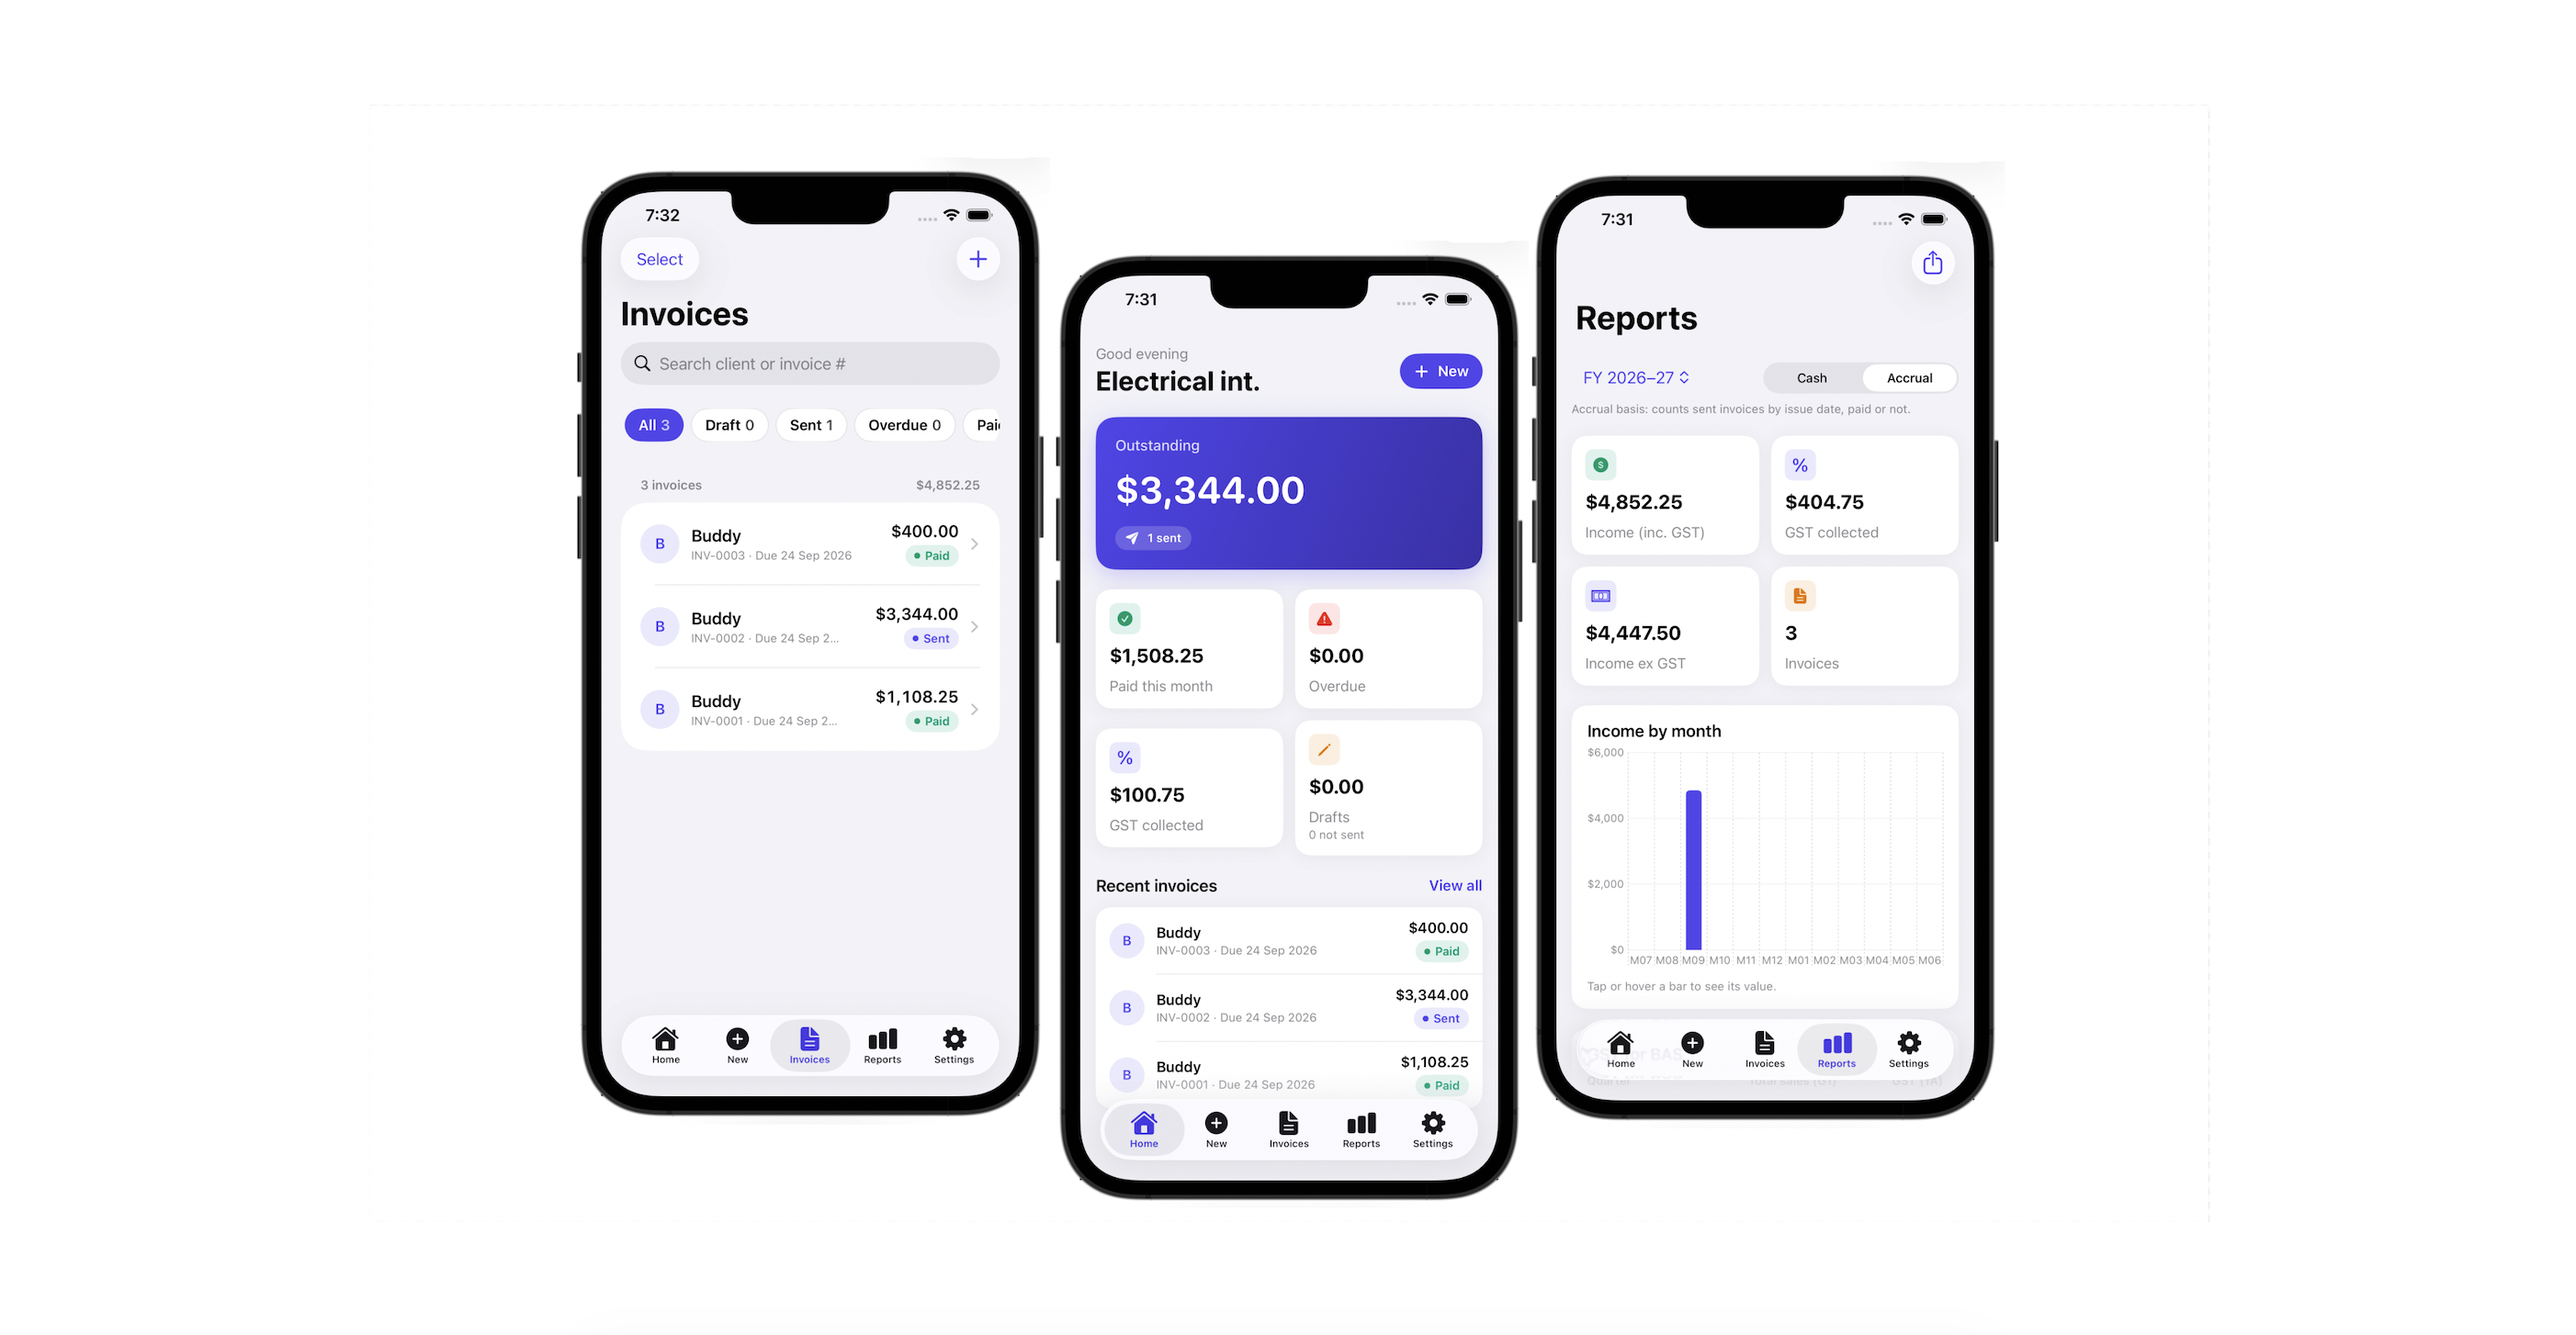
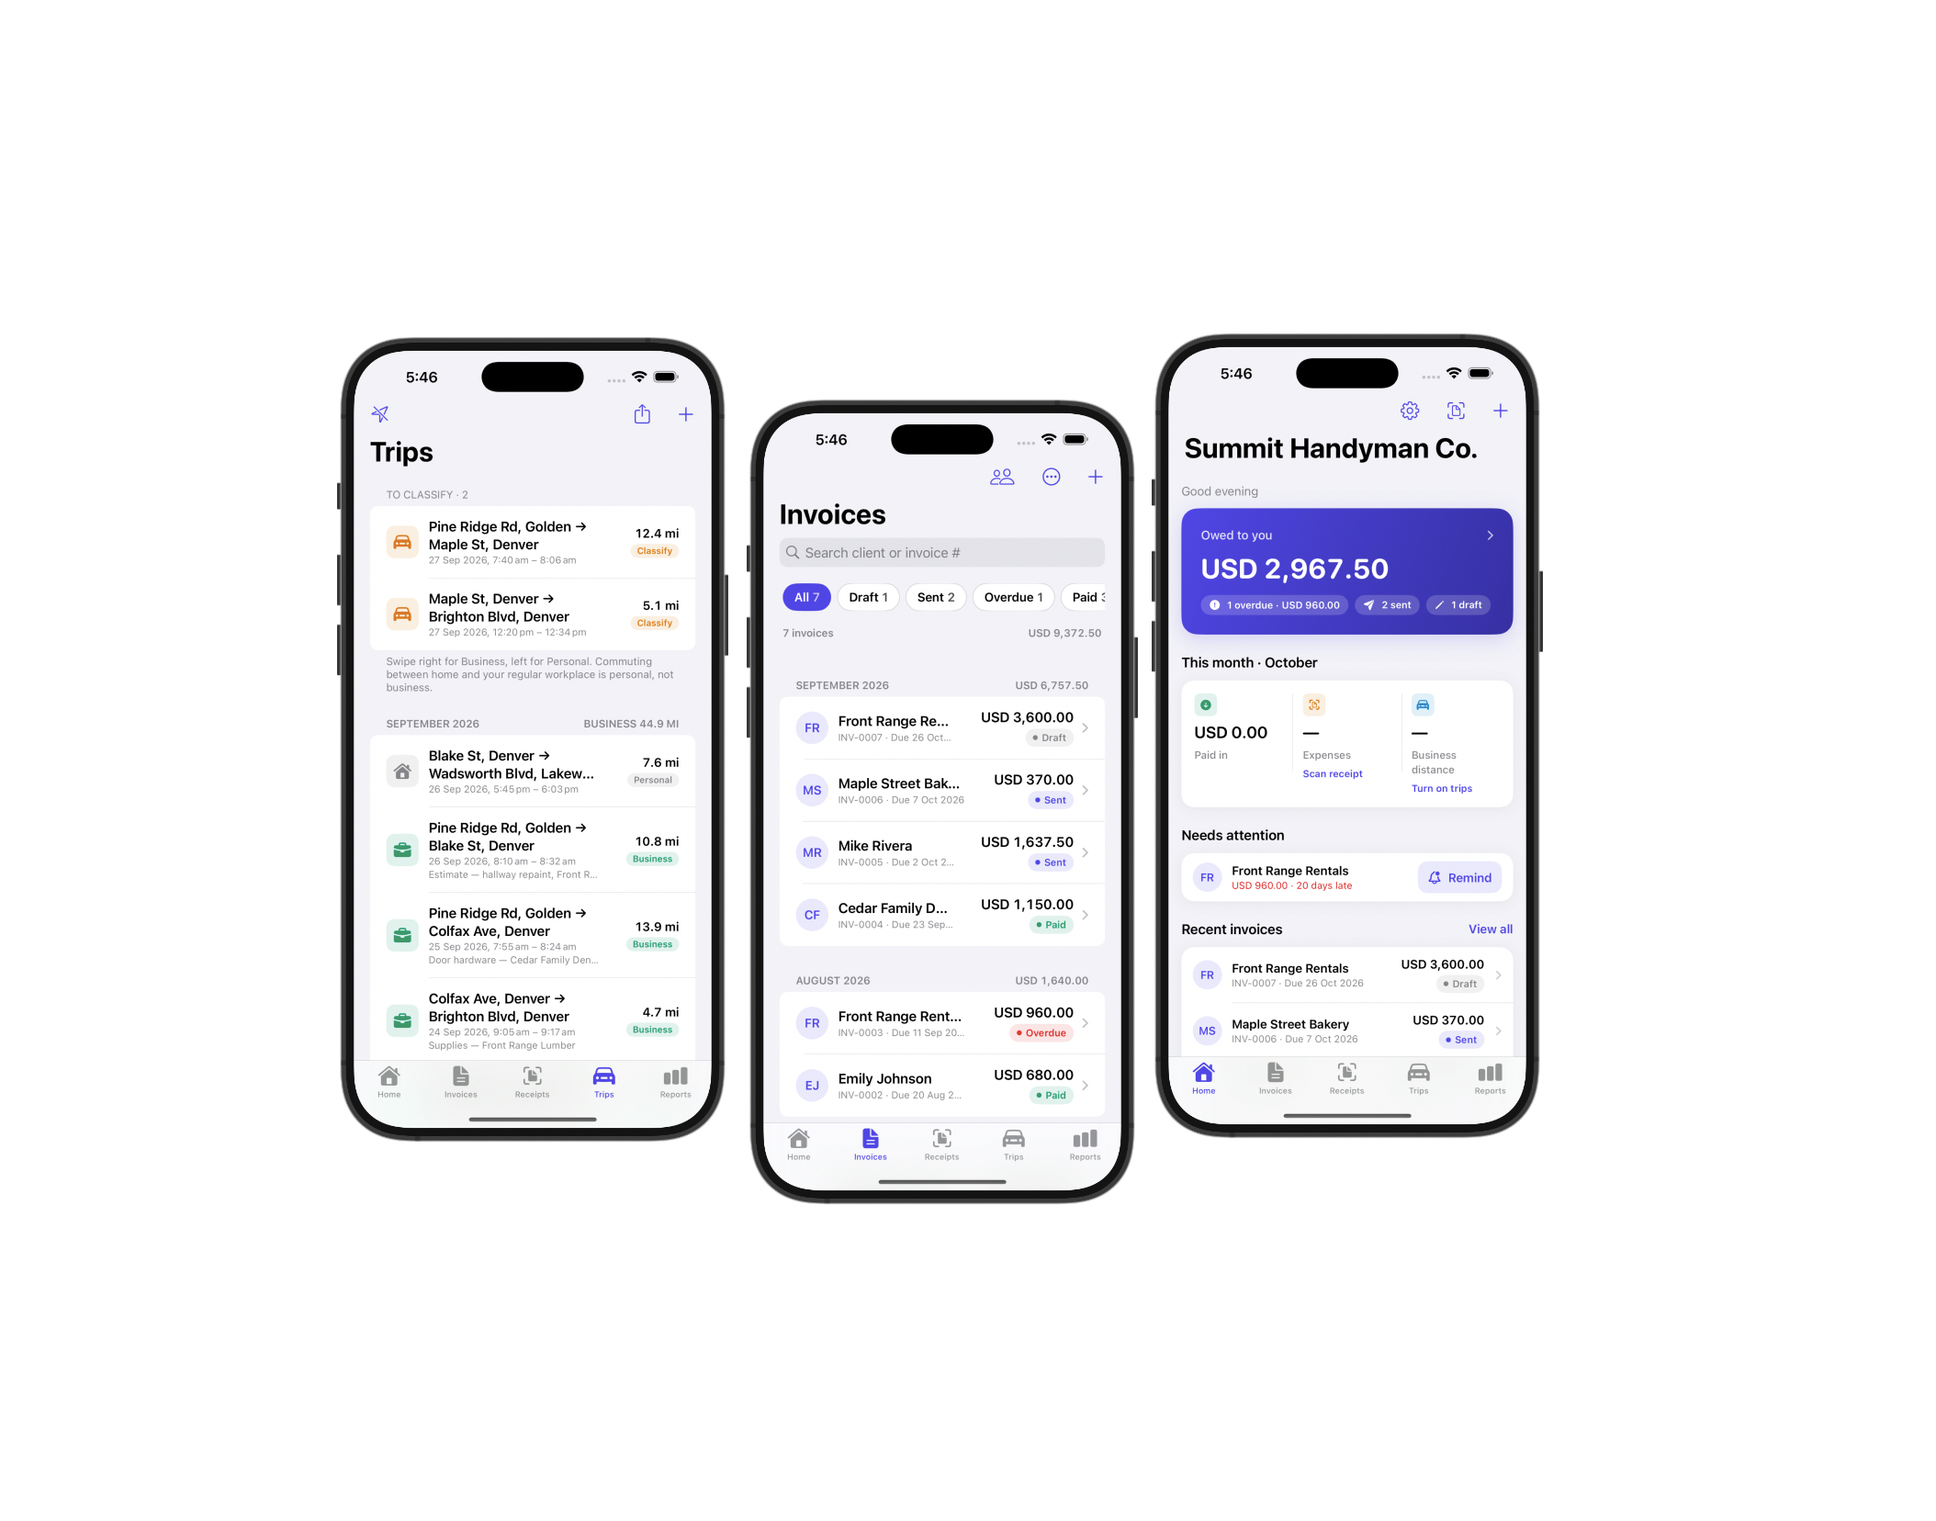
ok
o

Changed region(s): [[0.1542, 0.1238, 0.8017, 0.8975]]

diff --git a/index.html b/index.html
@@ -294,9 +294,9 @@
   <div class="projects-head reveal">
     <div>
       <span class="eyebrow">Projects</span>
-      <h2>Simples Pro</h2>
+      <h2>InvoMile</h2>
     </div>
-    <p>Real apps, real users — not just GitHub repos. These are live on the App Store.</p>
+    <p>Real apps, real users, not just GitHub repos. These are live on the App Store.</p>
   </div>
 
   <div class="project-featured reveal" onclick="window.open('https://apps.apple.com/au/app/simplespro/id6498627150','_blank')">
@@ -327,7 +327,7 @@ SimplesPro is the simple invoicing app for Australian tradies, sole traders and 
       <span class="eyebrow">Projects</span>
       <h2>Simples Invoices</h2>
     </div>
-    <p>Real apps, real users — not just GitHub repos. These are live on the App Store.</p>
+    <p>Real apps, real users, not just GitHub repos. These are live on the App Store.</p>
   </div>
 
   <div class="project-featured reveal" onclick="window.open('https://apps.apple.com/au/app/simplespro/id6498627150','_blank')">
@@ -435,15 +435,30 @@ SimplesPro is the simple invoicing app for Australian tradies, sole traders and 
     <span class="eyebrow">Gallery</span>
     <h2>Behind the builds</h2>
   </div>
+
   <div class="gallery-scroll" id="galleryScroll">
+    <div class="gallery-item">
+      <img src="invo.Jpeg" alt="SimplesPro UI"/>
+      <div class="gallery-item-label">Invomile<span>iOS App ·AI Invoicing</span></div>
+    </div>
+
+    <div class="gallery-item">
+      <img src="LLL.Jpeg" alt="SimplesPro UI"/>
+      <div class="gallery-item-label">Invomile<span>iOS App ·AI Invoicing</span></div>
+    </div>
+
     <div class="gallery-item">
       <img src="201.JPEG" alt="SimplesPro UI"/>
       <div class="gallery-item-label">SimplesPro<span>iOS App · Invoicing</span></div>
     </div>
+
+
+
      <div class="gallery-item">
       <img src="pc.jpeg" alt="MyPCaHELP UI"/>
       <div class="gallery-item-label">MyPCaHELP<span>Health · Prototype</span></div>
     </div>
+
     <div class="gallery-item">
       <img src="bbb.png" alt="SimplesInvoice UI"/>
       <div class="gallery-item-label">SimplesInvoice<span>iOS + Android · Free App</span></div>
